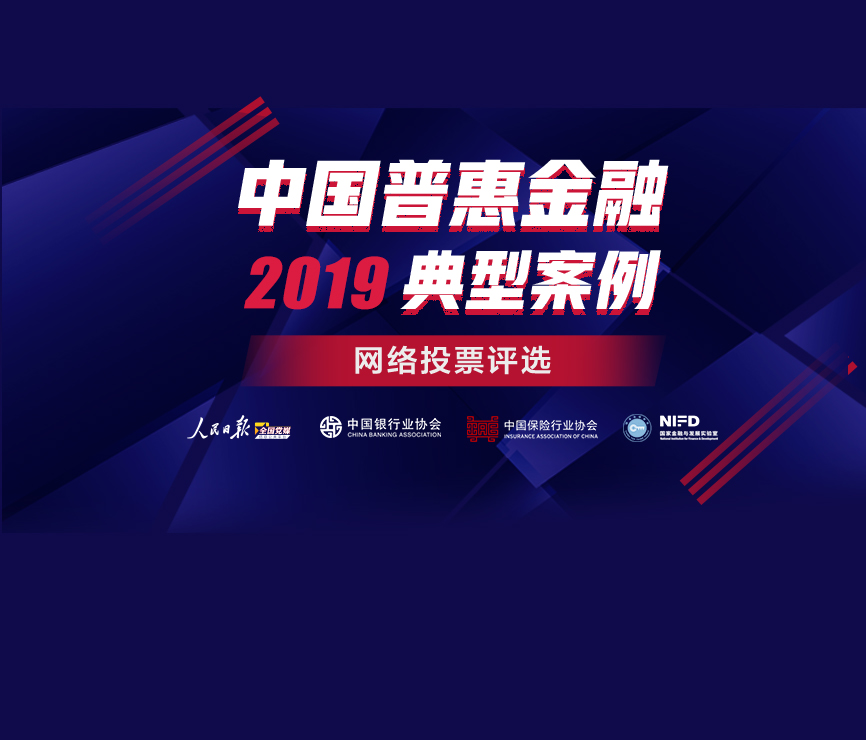
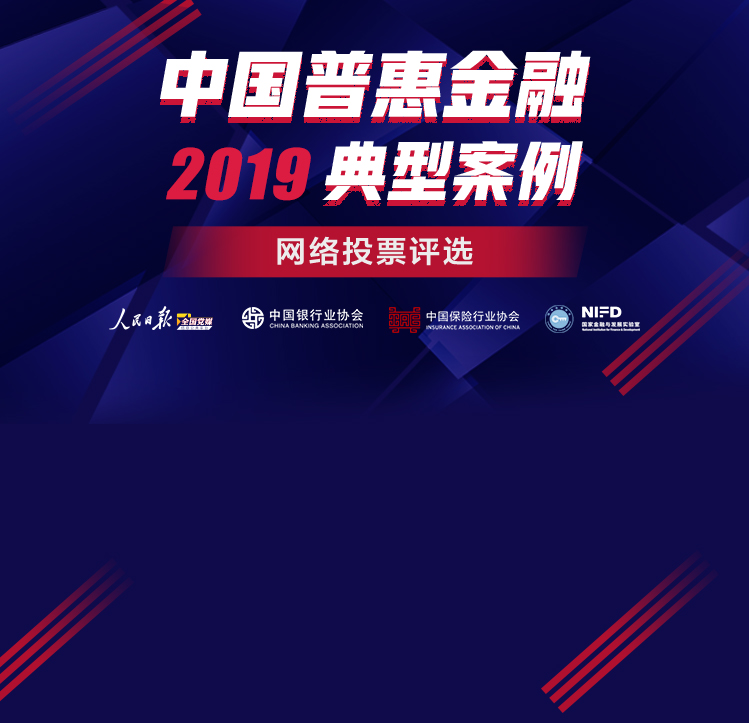
初步完成页面

diff --git a/详情页.html b/详情页.html
@@ -35,27 +35,91 @@
 <!-- 调用样式表 -->
 <link rel="stylesheet"  href="page.css" type="text/css" media="all"  charset="utf-8" />
 </head>
-
+<style>
+.title {
+  text-align: center;
+  margin: 15px 0;
+}
+.title span {
+  margin: 0;
+  padding: 0;
+  display: inline;
+  font-size: 26px;
+  color: #b91e0f;
+  box-shadow: inset 0px -19px #fee0d6;
+}
+.p2_box .info-bar {
+  color: #454545;
+  font-size: 16px;
+  font-family: "SimHei";
+}
+.p2_box .info-bar span {
+  display: inline-block;
+  margin: 0;
+  padding: 0;
+  width: 88px;
+  height: 30px;
+  color: white;
+  border-radius: 15px;
+  line-height: 30px;
+  margin-right: 10px;
+  font-weight: bold;
+  font-size: 16px;
+  background: linear-gradient(to bottom right, #fb755a , #fa4b4f);
+}
+.p2_box .text-box {
+  color: #454545;
+  font-size: 16px;
+  text-indent: 32px;
+  margin-bottom: 40px;
+}
+.bar {
+  height: 40px;
+  line-height: 40px;
+  text-align: center;
+}
+.bar .return-button {
+  display: inline-block;
+  width: 132px;
+  height: 26px;
+  margin: 7px 0;
+  background-size: 132px;
+  background-repeat: no-repeat;
+  background-image: url('images/return-button.png');
+}
+.explain-bar a {
+  color: #201d78;
+  font-size: 18px;
+  line-height: 40px;
+  text-decoration: underline;
+}
+</style>
 <body>
 <div class="p2_con clearfix w750">
   <div class="clearfix top01"></div>
   
-  
+  <div class="search-bar-box">
+    <form>
+        <input type="text"/>
+        <input class="button" type="button"></input>
+    </form>
+ </div>
   <div class="p2_box clearfix">
-    <h1 class="white">编号：A0201</h1>
-    <h2>案例：网上小额贷款<br />单位：中国工商银行总行网络融资中心</h2>
+    <h1 class="title"><span>编号A0201</span></h1>
+    <h2 class="info-bar"><span>名称</span>网上小额贷款</h2>
+    <h2 class="info-bar"><span>单位</span>中国工商银行总行网络融资中心</h2>
+    <h2 class="info-bar"><span>简介</span></h2>
     
-    <p class="white list_c"><b>案例概况：</b>针对传统模式下小微企业“融资难、融资贵”的特点，工商银行运用大数据及互联网技术，研发网上小额贷款这一线上融资产品。该产品根据不同业务场景，基于客户的交易、资产、信用等多维度数据，构建客户筛选、授信额度测算及风险监测模型，为符合风控要求客户在线发放信用贷款。业务推广后，有力助力普惠金融发展，获得传统模式下小微企业“融资难、融资贵”的特点，工商银行运用大数据及互联网技术，研发网上小额贷款这一线上融资产品。该产品根据不同业务场景，基于客户的交易、资产、信用等多维度数据，构建客户筛选、授信额度测算及风险监测模型，为符合风控要求客户在线发放信用贷款。业务推广后，有力助力普惠金融发展，获得传统模式下小微企业“融资难、融资贵”的特点，工商银行运用大数据及互联网技术，研发网上小额贷款这一线上融资产品。该产品根据不同业务场景，基于客户的交易、资产、信用等多维度数据，构建客户筛选、授信额度测算及风险监测模型，为符合风控要求客户在线发放信用贷款。业务推广后，有力助力普惠金融发展，获得传统模式下小微企业“融资难、融资贵”的特点，工商银行运用大数据及互联网技术，研发网上小额贷款这一线上融资产品。该产品根据不同业务场景，基于客户的交易、资产、信用等多维度数据，构建客户筛选、授信额度测算及风险监测模型，为符合风控要求客户在线发放信用贷款。业务推广后，有力助力普惠金融发展，获得了行内外一致肯定。</p><i class="load_more1 white">（查看详情）</i>
-    
-    <span class="white">扫描二维码，为他投一票！<img src="images/t01.jpg" width="292" height="292" /></span>
-    
-    <p class="white"><b>投票只需两步：</b>
-    1、扫描二维码进入人民网微信，点击菜单栏“互动”——“普惠金融投票”投票，进入投票页面<br />2、输入项目编码或标题找到你要投票的项目，点击投票即可。<br />
-*投票截止时间：2018年6月28日<br />*投票活动只在微信中进行，每个微信号单个项目限投一票
-    </p>
+    <p class="text-box">中国工商银行总行网络融资中心中国工商银行总行网络融资中心中国工商银行总行网络融资中心中国工商银行总行网络融资中心中国工商银行总行网络融资中心中国工商银行总行网络融资中心中国工商银行总行网络融资中心中国工商银行总行网络融资中心中国工商银行总行。</p>
+    <!-- 返回投票页 -->
+    <div class="bar">
+      <a class="return-button" href="#"></a>
+    </div>
+    <!-- 活动说明 -->
+    <div class="bar explain-bar">
+      <a href="#">活动说明</a>
+    </div>
   </div>
-
-
 </div>
 
 
@@ -65,7 +129,7 @@
 
 
 
-<script src="/css/2010tianrun/webdig_test.js" language="javascript" type="text/javascript" async></script>
-{TAG_252382_TAG}
+<!-- <script src="/css/2010tianrun/webdig_test.js" language="javascript" type="text/javascript" async></script>
+{TAG_252382_TAG} -->
 </body>
 </html>

diff --git a/page.css b/page.css
@@ -1,5 +1,9 @@
 @charset "utf-8";
 /* CSS Document */
+html, body {
+    height: 100%;
+    width: 100%;
+}
  body{
      padding:0;
      margin:0;
@@ -81,7 +85,7 @@
  .fr{
      float:right;
 }
- .top01{height:4rem; position:relative;}
+ .top01{height:5rem; position:relative;}
  .top01 p{ position:absolute; height:0.6rem; top:5.5rem;}
  .top01 p a{ display:block;  height:100%; width:100%;}
  .top01 p.t01{ width:2rem;left:3.2rem;}
@@ -91,7 +95,6 @@
  .p1_con {
     background:url(images/bg01.jpg) top center no-repeat; background-size:100%;
     background-color: #0e0f49;
-    background-position-y: -11%;
     height: 100%;
 }
  .search{
@@ -129,7 +132,7 @@
  .p1_title li.this{filter:Alpha(Opacity=100); opacity: 1;-moz-opacity:1; }
  .p1_tpbox {
     width: 95%;
-    height: calc(100% - 390px);
+    height: calc(100% - 425px);
     overflow: hidden;
 }
 .p1_tpbox .list {
@@ -173,16 +176,13 @@
  .p2_con{
     background: url(images/bg01.jpg) top center no-repeat #0e0f49;
     background-size: 100%;
-    background-position-y: -70px;
-     height: auto;
-     padding-bottom:0.26666666666666666rem;
+     padding-bottom: 40px;
 }
  .p2_box{
-     border:#8c7435 1px solid;
-     border-radius:0.10666666666666667rem;
-     width:7.92rem;
-     margin:0.26666666666666666rem auto;
-     padding-bottom:0.4rem;
+    background-color: white;
+    width: 94%;
+    border-radius: 5px;
+    padding-bottom: 20px;
 }
 
  .p2_box h1{
@@ -190,7 +190,6 @@
      padding:0.13333333333333333rem 0.13333333333333333rem 0.02666666666666667rem 0.2rem;
 }
  .p2_box h2{
-     background:#d2a15e;
      font-size:0.3466666666666667rem;
      line-height:140%;
      padding:0.13333333333333333rem 0.2rem;
@@ -218,7 +217,7 @@
  .p3_box{
      border:#8c7435 1px solid;
      border-radius:0.10666666666666667rem;
-     width:7.92rem;
+     width: 95%;
      margin:0.26666666666666666rem auto;
      padding-bottom:0.4rem;
      background-color: white;
@@ -246,7 +245,7 @@
      height:0.84rem;
      line-height:0.84rem;
      text-align:center;
-     margin-bottom:0.13333333333333333rem;
+     margin-top: 20px;
      background-position: center;
      font-weight: bold;
 }
@@ -265,5 +264,64 @@
  
  .list_c{ height:3rem; overflow:hidden;}
 .load_more1{ text-align:left; padding-top:2%; font-size:0.32rem;display:block;}
- .box01{ width:100%; height:100%; background:#000; text-align:center; display:none; position:fixed; top:0; left:0;}
- .box01 img{ margin:30% auto 0; width:80%; height:auto;}
+ .box01{
+    width: 100%;
+    height: 100%;
+    background: rgba(0, 0, 0, 0.8);
+    text-align: center;
+    display: none;
+    position: fixed;
+    top: 0;
+    left: 0;
+    z-index: 999;
+}
+.box01 img {
+    height: 172px;
+    width: 279px;
+    position: absolute;
+    left: 0;
+    right: 0;
+    top: 0;
+    bottom: 0;
+    margin: auto;
+}
+
+/* 搜索条 */
+.search-bar-box {
+    width: 80%;
+    background-color: #bc2536;
+    border-radius: 5px;
+    height: 40px;
+    padding: 5px;
+    margin: 10px auto;
+ }
+ .search-bar-box input {
+    height: 40px;
+    background-color: transparent;
+    border: none;
+ }
+ .search-bar-box form {
+    background-color: white;
+    border-radius: 10px;
+    position: relative;
+ }
+ .search-bar-box form input {
+    width: calc(100% - 50px);
+    padding: 0 10px;
+    font-size: 18px;
+ }
+ .search-bar-box form .button {
+    display: block;
+    position: absolute;
+    right: 0;
+    width: 40px;
+    height: 40px;
+    background-repeat: no-repeat;
+    border: none;
+    top: 0;
+    cursor: pointer;
+    background-size: 20px;
+    background-position: center;
+    background-color: transparent;
+    background-image: url('images/search.png');
+ }

diff --git a/投票页.html b/投票页.html
@@ -57,46 +57,7 @@ $(document).ready(function(){
    body, html {
       height: 100%;
    }
-   button {
-      background-image: url('images/search.png');
-   }
-   .search-bar-box {
-      width: 80%;
-      background-color: #bc2536;
-      border-radius: 5px;
-      height: 40px;
-      padding: 10px;
-      margin: 10px auto;
-   }
-   .search-bar-box input {
-      height: 40px;
-      background-color: transparent;
-      border: none;
-   }
-   .search-bar {
-      background-color: white;
-      border-radius: 10px;
-      position: relative;
-   }
-   .search-bar input {
-      width: calc(100% - 50px);
-      padding: 0 10px;
-      font-size: 18px;
-   }
-   .search-bar button {
-      display: block;
-      position: absolute;
-      right: 0;
-      width: 40px;
-      height: 40px;
-      background-repeat: no-repeat;
-      border: none;
-      top: 0;
-      cursor: pointer;
-      background-size: 20px;
-      background-position: center;
-      background-color: transparent;
-   }
+
    .p1_title ul li {
       color: #ffc9a2;
       width: 23%;
@@ -192,10 +153,10 @@ $(document).ready(function(){
   </div>
   
   <div class="search-bar-box">
-     <div class="search-bar">
+     <form>
          <input type="text"/>
-         <button></button>
-     </div>
+         <input class="button" type="button"></input>
+     </form>
   </div>
   
   <div class="title-2">搜索典型案例</div>
@@ -220,7 +181,7 @@ $(document).ready(function(){
      </ul>
   </div>
   <!--弹出-->
-  <div class="box01"><img src="images/box01.jpg" width="573" height="347" /></div>
+  <div class="box01"><img src="images/box01.png" width="558" height="345" /></div>
   <!--弹出 end-->
   <div class="p1_tpbox">
      

diff --git a/分享页.html b/分享页.html
@@ -24,6 +24,7 @@
     background-position: center;
     background-size: auto 100%;
     height: 150px;
+    margin: 20px 0;
     position: relative;
     background-repeat: no-repeat;
     background-image: url(images/qr-box.png);
@@ -118,7 +119,7 @@
 
 
 
-<script src="/css/2010tianrun/webdig_test.js" language="javascript" type="text/javascript" async></script>
-{TAG_252382_TAG}
+<!-- <script src="/css/2010tianrun/webdig_test.js" language="javascript" type="text/javascript" async></script>
+{TAG_252382_TAG} -->
 </body>
 </html>
